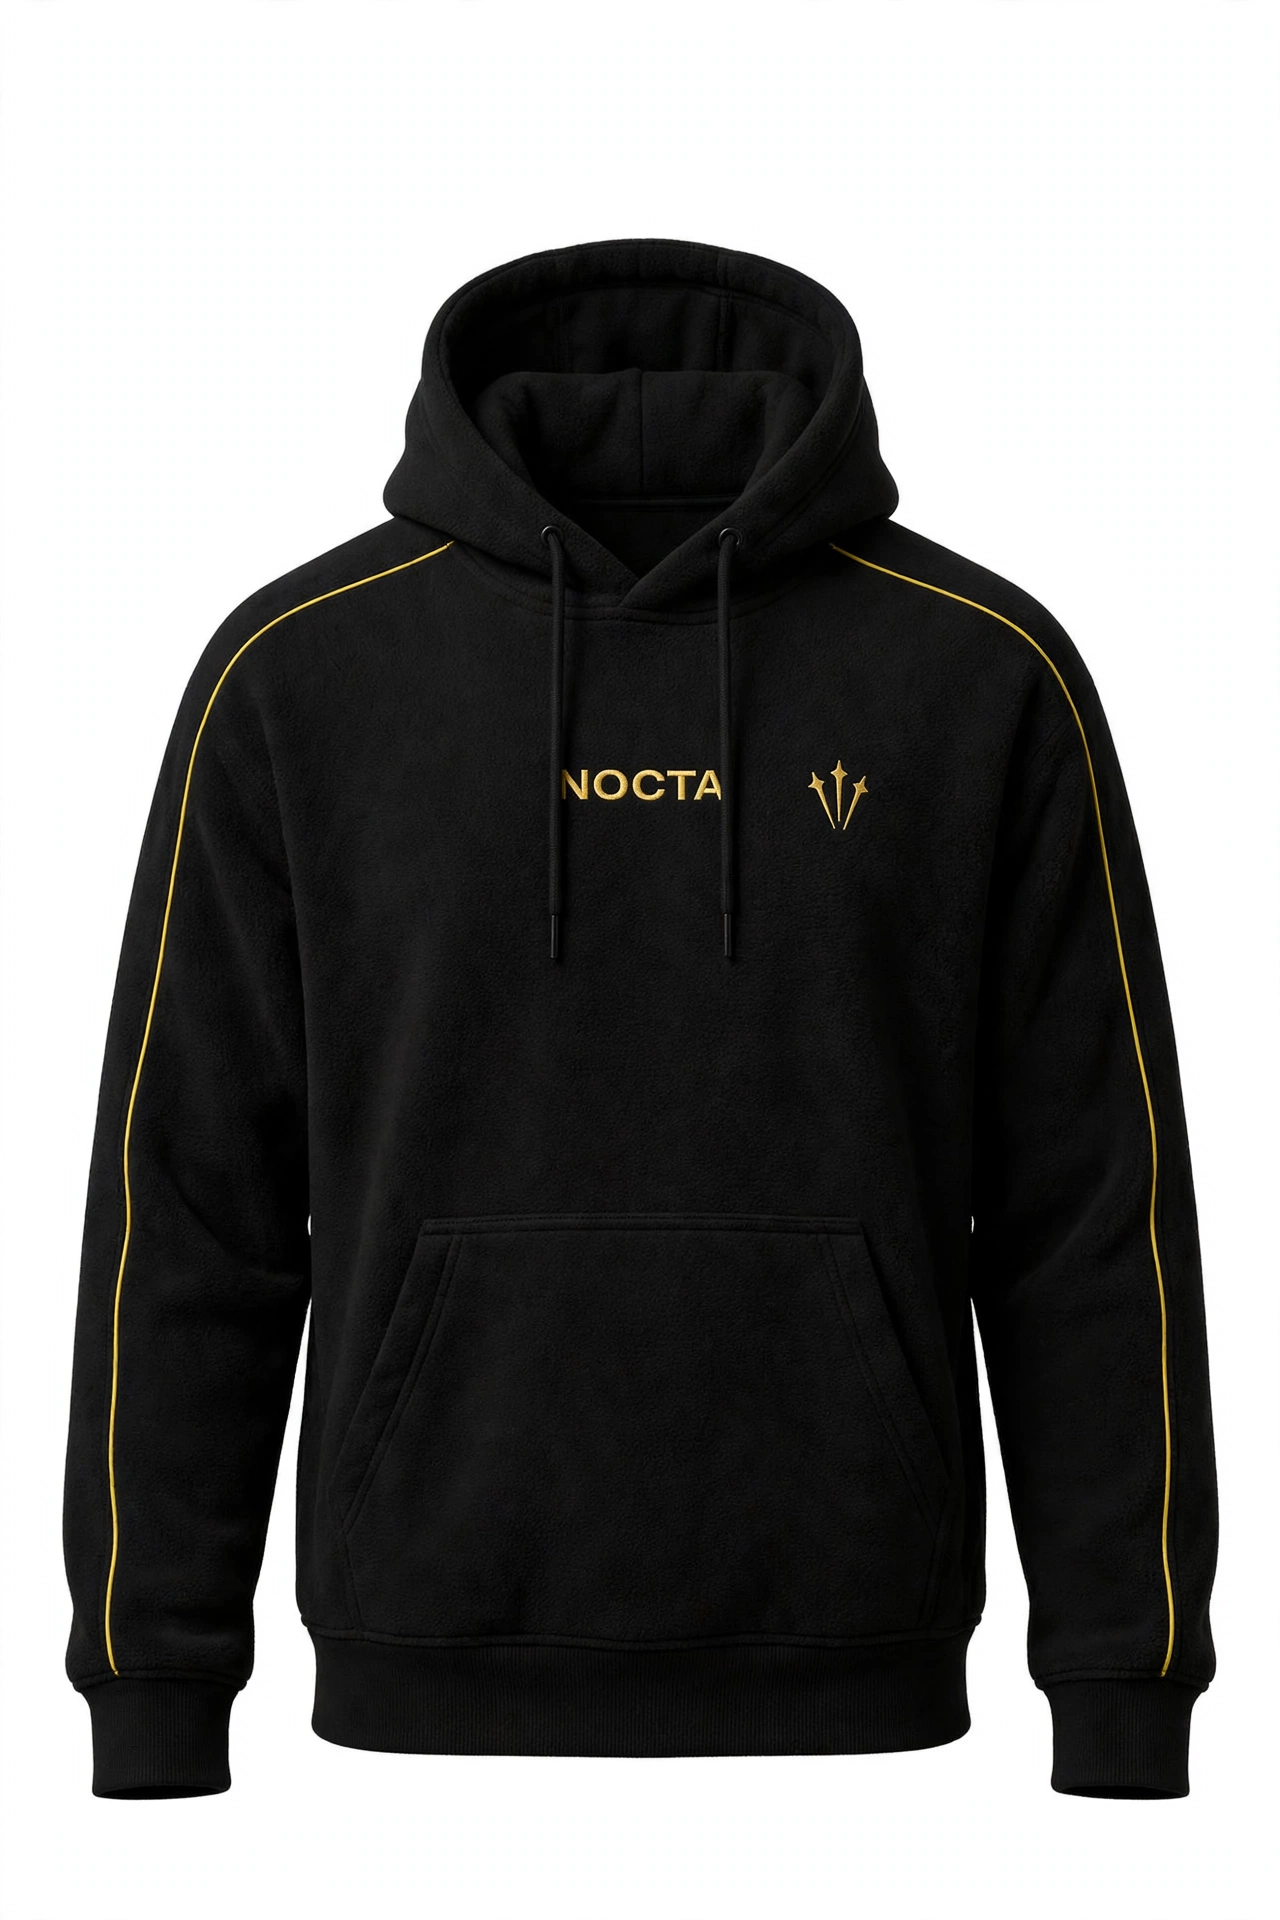
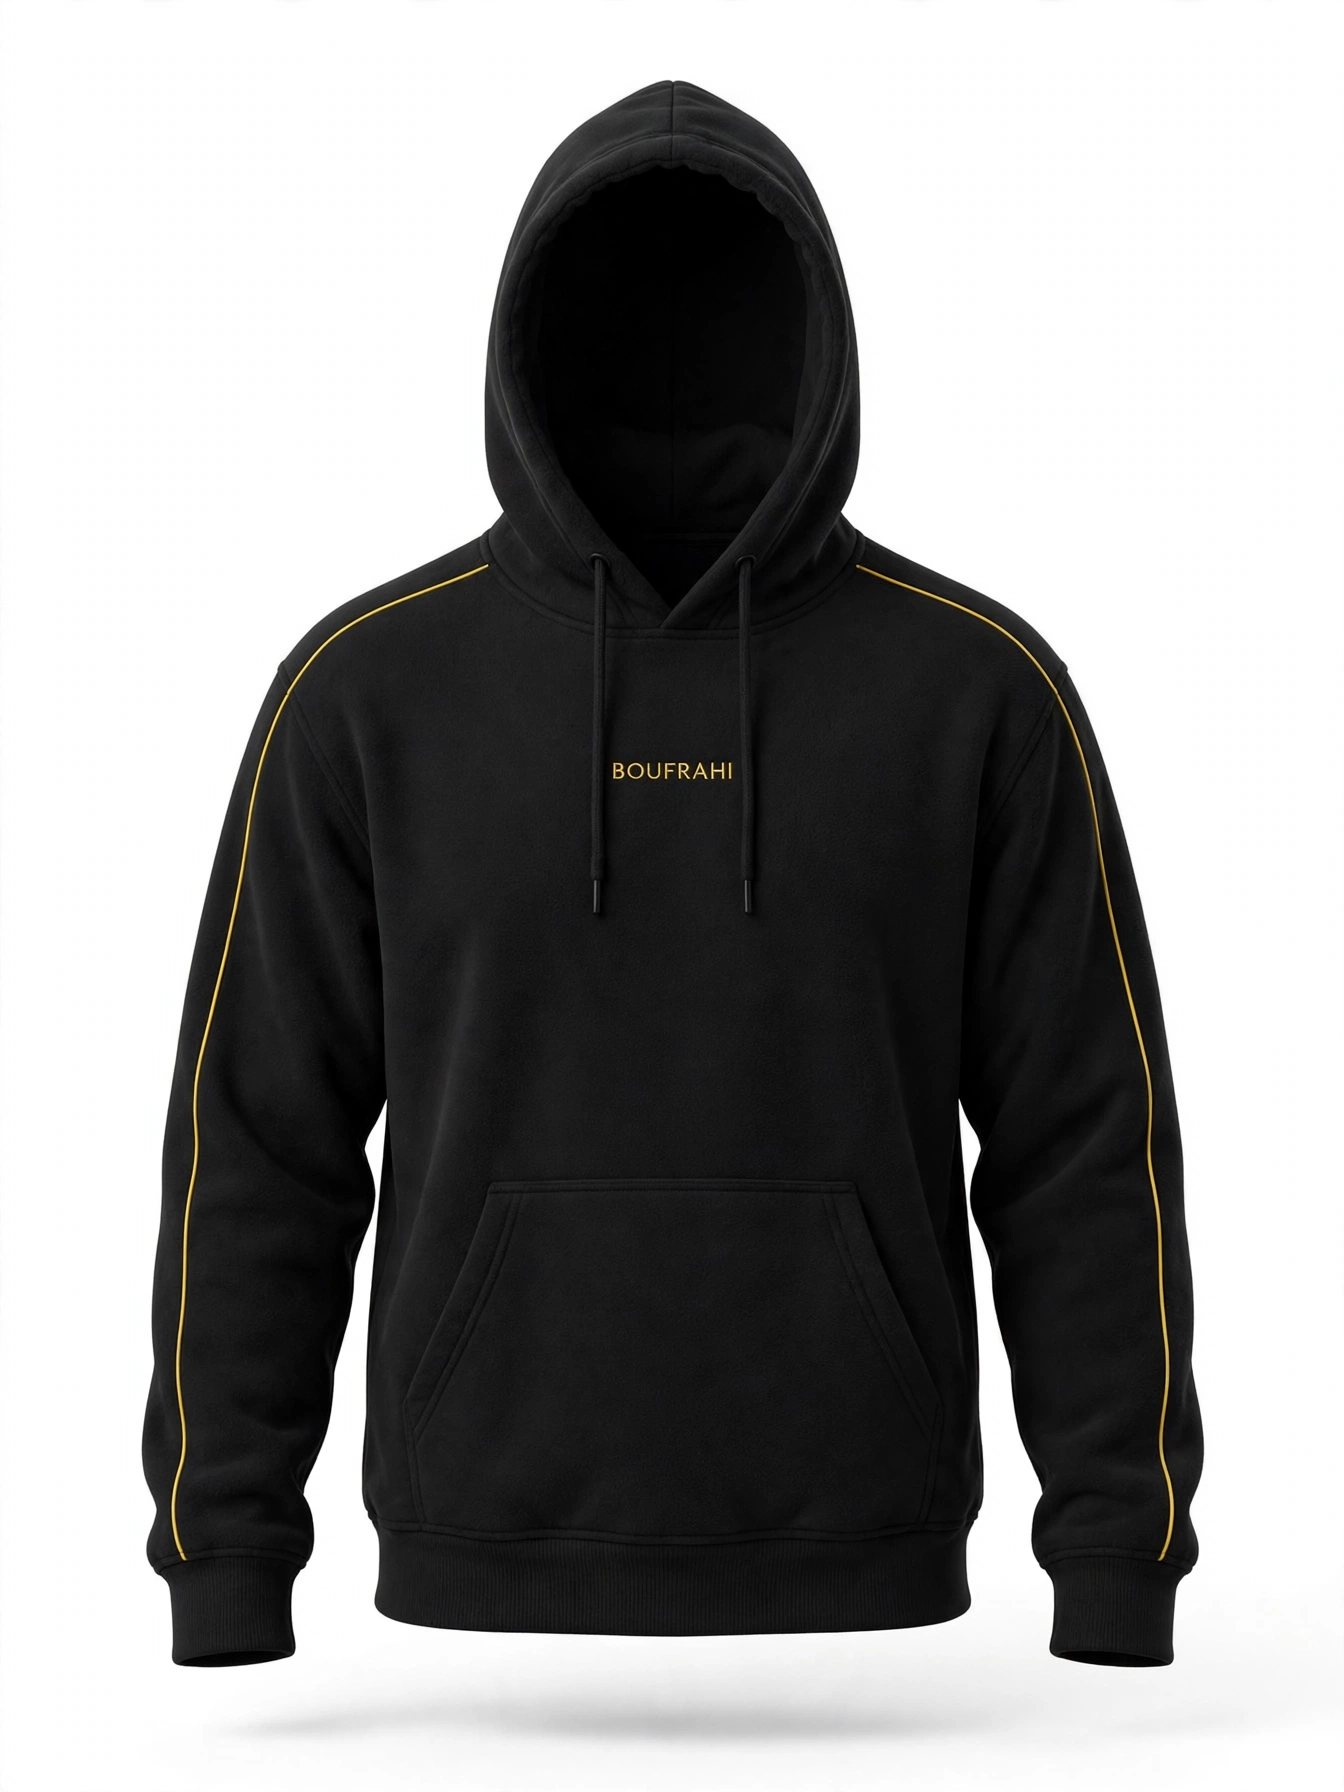
Deploy nocta-clone (GitHub Pages)

diff --git a/index.html b/index.html
@@ -4,7 +4,7 @@
 <meta charset="utf-8">
 <meta name="viewport" content="width=device-width, initial-scale=1">
 <meta name="google" content="notranslate">
-<title>NOCTA — The Nocta Collection | FS/26</title>
+<title>BOUFRAHI — The Boufrahi Collection | FS/26</title>
 <link rel="preconnect" href="https://fonts.googleapis.com">
 <link href="https://fonts.googleapis.com/css2?family=Archivo:ital,wght@0,400;0,500;0,600;0,700;0,800;0,900;1,900&family=Archivo+Black&display=swap" rel="stylesheet">
 <style>
@@ -58,6 +58,7 @@ header nav a:hover::after{width:100%}
 .tile img{width:100%;height:100%;object-fit:cover;transition:transform 1.1s cubic-bezier(.19,1,.22,1)}
 .tile:hover img{transform:scale(1.06)}
 .tile span{position:absolute;left:26px;bottom:20px;color:#fff;font-weight:900;font-size:clamp(26px,3.4vw,46px);letter-spacing:-.01em;text-transform:uppercase;text-shadow:0 4px 30px rgba(0,0,0,.35)}
+.tmark{position:absolute;top:16px;left:50%;transform:translateX(-50%);color:#fff;font-style:normal;font-family:'Archivo Black';font-style:italic;font-size:13px;letter-spacing:-.5px;text-shadow:0 2px 14px rgba(0,0,0,.4);z-index:2}
 .tile em{position:absolute;right:26px;bottom:28px;color:#fff;font-style:normal;font-size:12px;font-weight:700;letter-spacing:.22em;opacity:0;transform:translateX(-8px);transition:.35s}
 .tile:hover em{opacity:1;transform:none}
 
@@ -177,7 +178,7 @@ footer{margin-top:70px;border-top:1px solid var(--line);padding:52px 34px 30px}
     <a href="#tiles" onclick="goHome(event,'tiles')">Collections</a>
     <a href="#footer" onclick="goHome(event,'footer')">Contact</a>
   </nav>
-  <div class="logo">NOCTA<sup>®</sup></div>
+  <div class="logo">BOUFRAHI<sup>®</sup></div>
   <div class="hicons">
     <button aria-label="Search"><svg viewBox="0 0 24 24" fill="none" stroke="currentColor" stroke-width="2"><circle cx="11" cy="11" r="7"/><path d="M21 21l-4.3-4.3"/></svg></button>
     <button aria-label="Account"><svg viewBox="0 0 24 24" fill="none" stroke="currentColor" stroke-width="2"><circle cx="12" cy="8" r="4"/><path d="M4 21c1.5-4 5-5.5 8-5.5s6.5 1.5 8 5.5"/></svg></button>
@@ -189,17 +190,17 @@ footer{margin-top:70px;border-top:1px solid var(--line);padding:52px 34px 30px}
   <!-- HERO -->
   <section class="hero" id="hero">
     <div class="slide on">
-      <img class="model" src="img/hero-black.webp" alt="The Nocta Collection — piped hoodie look">
+      <img class="model" src="img/hero-black.webp" alt="The Boufrahi Collection — piped hoodie look">
       <div class="copy">
-        <h1>The Nocta<br>Collection</h1>
+        <h1>The Boufrahi<br>Collection</h1>
         <p>Made for the night shift. // Worn around the clock</p>
         <a class="pill" href="#drop">Shop now</a>
       </div>
     </div>
     <div class="slide">
-      <img class="model" src="img/hero-orange.webp" alt="The Nocta Collection — puffer jacket look">
+      <img class="model" src="img/hero-orange.webp" alt="The Boufrahi Collection — puffer jacket look">
       <div class="copy">
-        <h1>The Nocta<br>Collection</h1>
+        <h1>The Boufrahi<br>Collection</h1>
         <p>Made for the night shift. // Worn around the clock</p>
         <a class="pill" href="#drop">Shop now</a>
       </div>
@@ -207,7 +208,7 @@ footer{margin-top:70px;border-top:1px solid var(--line);padding:52px 34px 30px}
     <div class="slide dark">
       <span class="tag">FS / 26</span>
       <div class="copy">
-        <h1>Forza<br>Nocta</h1>
+        <h1>Forza<br>Boufrahi</h1>
         <p>The new season drop is live now.</p>
         <a class="pill" href="#drop">Shop now</a>
       </div>
@@ -223,7 +224,7 @@ footer{margin-top:70px;border-top:1px solid var(--line);padding:52px 34px 30px}
   <section class="tiles" id="tiles">
     <div class="tile rv" onclick="document.getElementById('drop').scrollIntoView({behavior:'smooth'})">
       <img src="img/tile-footwear.webp" alt="Footwear">
-      <span>Footwear</span><em>SHOP →</em>
+      <i class="tmark">BOUFRAHI<sup>®</sup></i><span>Footwear</span><em>SHOP →</em>
     </div>
     <div class="tile rv" onclick="document.getElementById('drop').scrollIntoView({behavior:'smooth'})">
       <img src="img/tile-couture.webp" alt="Couture">
@@ -279,14 +280,14 @@ footer{margin-top:70px;border-top:1px solid var(--line);padding:52px 34px 30px}
 <footer id="footer">
   <div class="fgrid">
     <div>
-      <div class="logo" style="margin-bottom:14px">NOCTA<sup>®</sup></div>
+      <div class="logo" style="margin-bottom:14px">BOUFRAHI<sup>®</sup></div>
       <p style="font-size:13px;color:#777;max-width:260px;line-height:1.7">Made for the night shift. Worn around the clock.</p>
     </div>
     <div><h4>HELP</h4><ul><li><a href="#">Shipping</a></li><li><a href="#">Returns</a></li><li><a href="#">Size guide</a></li><li><a href="#">Contact us</a></li></ul></div>
     <div><h4>COMPANY</h4><ul><li><a href="#">About</a></li><li><a href="#">Stores</a></li><li><a href="#">Careers</a></li><li><a href="#">Press</a></li></ul></div>
     <div><h4>SOCIAL</h4><ul><li><a href="#">Instagram</a></li><li><a href="#">TikTok</a></li><li><a href="#">X</a></li><li><a href="#">YouTube</a></li></ul></div>
   </div>
-  <div class="fbot"><span>© 2026 NOCTA — FS/26</span><span>Terms · Privacy · Cookies</span></div>
+  <div class="fbot"><span>© 2026 BOUFRAHI — FS/26</span><span>Terms · Privacy · Cookies</span></div>
   <p class="demo-note">Concept demo built by VERTEX WEB — design replica for demonstration only. All product imagery is AI-generated placeholder photography; brand and products are placeholders to be swapped before any commercial use.</p>
 </footer>
 
